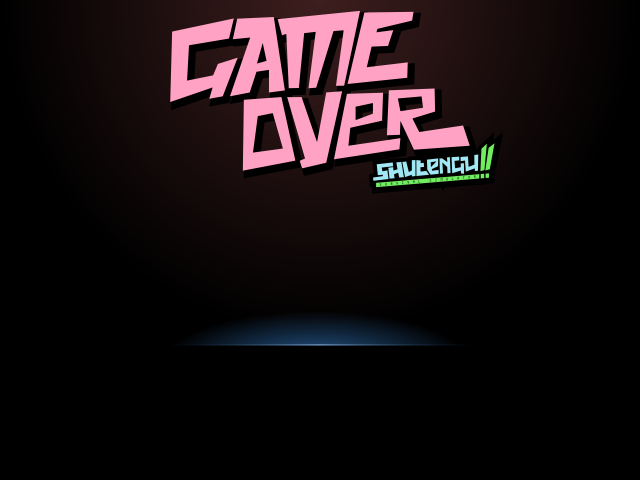
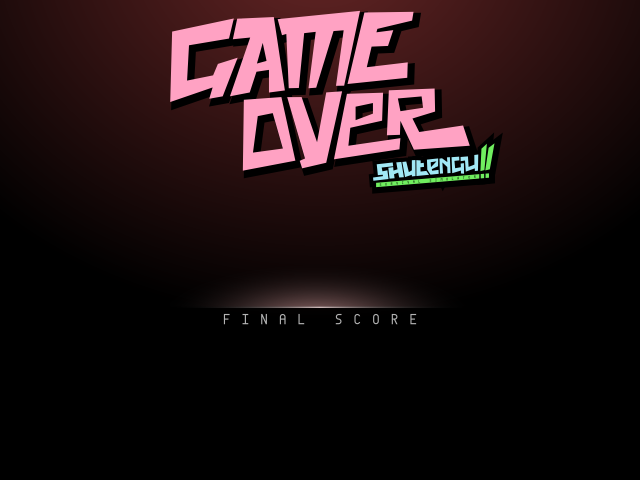
.WhyCantIHoldAllTheseFileExtensions

Changed region(s): [[0.0, 0.0, 1.0, 0.1875], [0.3125, 0.5938, 0.6875, 0.7188]]

diff --git a/SHUTENGU(fix the bullets).cpp b/SHUTENGU(fix the bullets).cpp
@@ -56,6 +56,7 @@ Mix_Chunk *chBomb=NULL;
 TTF_Font *fnMenu=NULL;
 TTF_Font *fnHUD=NULL;
 TTF_Font *fnHighScore=NULL;
+TTF_Font *fnFinalScore=NULL;
 SDL_Color clDefault= {0,0,0};
 SDL_Color clMenu= {0xff,0xff,0xff};
 SDL_Color clScore= {0xff,0xff,0xff};
@@ -71,24 +72,31 @@ SDL_Event event;
 //lists ship properties
 class ship {;
     public:
-    	int xVel, yVel;     //velocity
+    	int xVel, yVel;                         //velocity
         SDL_Rect hitbox;
-        ship();             //initializes
-        void handleInput();//handles keyboard controls for the ship
-        void move(Uint32 deltaTicks);        //handles motion
-        void show();        //renders ship
+        ship();                                 //initializes
+        void handleInput();                     //handles keyboard controls for the ship
+        void move(Uint32 deltaTicks);           //handles motion
+        void show();                            //renders ship
 };
 
 struct bulletData {         //bullet structure
     SDL_Rect hitbox;		//SDL_Rect is a structure; this is a nested structure
     int xVel;
     int yVel;
+    void move(Uint32 deltaTicks);
 };
-
 //A STRUCTURE ARRAY!
 //it must be declared here in order for the bulletData data type to be valid
 bulletData b[200];
 
+void bulletData::move(Uint32 DeltaTicks){
+    int i;
+    for(i=0;i<iMaxBul;i++){
+        b[i].hitbox.x=((b[i].xVel)*100)*(DeltaTicks/1000.f);
+        b[i].hitbox.y=((b[i].yVel)*100)*(DeltaTicks/1000.f);
+    }
+}
 //lists timer properties
 class Timer {
     private:
@@ -143,6 +151,8 @@ bool init() {
 
 //initializes most game assets
 bool prepAssets() {
+    int i;
+
     //load images or return false if error
     sfMenu=IMG_Load("img/menu.png");
     sfShip=IMG_Load("img/gameship.png");
@@ -178,9 +188,11 @@ bool prepAssets() {
     fnMenu=TTF_OpenFont("envy.ttf",24);
     fnHUD=TTF_OpenFont("envy.ttf",46);
     fnHighScore=TTF_OpenFont("envy.ttf",24);
+    fnFinalScore=TTF_OpenFont("envy.ttf",64);
     if(fnMenu==NULL||
 		fnHUD==NULL||
-		fnHighScore==NULL) return false;
+		fnHighScore==NULL||
+		fnFinalScore==NULL) return false;
 
     //all is well
     return true;
@@ -220,6 +232,7 @@ void cleanUp() {
     TTF_CloseFont(fnMenu);
     TTF_CloseFont(fnHUD);
     TTF_CloseFont(fnHighScore);
+    TTF_CloseFont(fnFinalScore);
     TTF_Quit();
 
     //quit SDL
@@ -295,7 +308,7 @@ void nextWave() {
     iMaxBul+=2;                       //after every wave increase, the number of bullets increases
     b[iMaxBul].xVel=rand()%10-5;      //sets the new bullet parameters
     b[iMaxBul].yVel=rand()%5+1;
-    b[iMaxBul-1].xVel=rand()%10-5;        //sets the new bullet parameters
+    b[iMaxBul-1].xVel=rand()%10-5;    //sets the new bullet parameters
     b[iMaxBul-1].yVel=rand()%5+1;
     prepBullets();
 }
@@ -400,7 +413,6 @@ void ship::move(Uint32 DeltaTicks) {
     else if(hitbox.y+SHIP_HEIGHT>480){
         hitbox.y=460;
     }
-    //if((hitbox.y<0)||(hitbox.y+SHIP_HEIGHT>SCREEN_HEIGHT)) hitbox.y-=yVel*(DeltaTicks/1000.f);
 }
 
 //renders the ship
@@ -552,7 +564,7 @@ int main(int argc,char* args[]) {
     //read and store the string of appropriate language
     FILE *pLang;
     char strLang[25];       //language string
-    if((pLang=fopen("text/gr.txt","r"))!=NULL) {
+    if((pLang=fopen("text/gr.WhyCantIHoldAllTheseFileExtensions","r"))!=NULL) {
         if(fgets(strLang,25,pLang)==NULL) return 1;
     }
     fclose(pLang);
@@ -561,7 +573,7 @@ int main(int argc,char* args[]) {
 	//read and store current highscore
 	FILE *pHighScoreR;
 	char strHighScore[10];
-	if((pHighScoreR=fopen("text/highscore.txt","r"))!=NULL){
+	if((pHighScoreR=fopen("text/highscore.WhyCantIHoldAllTheseFileExtensions","r"))!=NULL){
 		if(fgets(strHighScore,10,pHighScoreR)==NULL) return 1;
 	}
 	fclose(pHighScoreR);
@@ -674,7 +686,11 @@ int main(int argc,char* args[]) {
 				}
 			}
 
+
 			//update screen data
+			for(i=0;i<=iMaxBul;i++){
+                b[i].move(tmDelta.getTicks());
+			}
 			myship.move(tmDelta.getTicks());    //update ship's position
 			tmDelta.start();                    //restart change of time timer
 			printb(0,0,sfBG,sfScreen);          //print background
@@ -685,26 +701,27 @@ int main(int argc,char* args[]) {
 			iMaxBul=-1;
 			}
 
-			for(i=0; i<=iMaxBul; i++) {
-				if(isCol(myship.hitbox,b[i].hitbox)) {
-					iLife--;
-					if(Mix_PlayChannel(-1,chDeath,0)==-1) return 1;
-					iBomb=3;
-					if(iLife==0) quitGame=true;
-					b[i].hitbox.x=rand()%420-120;
-					b[i].hitbox.y=0;
-				}
-				if(b[i].hitbox.x>515) b[i].hitbox.x=120;
-				if(b[i].hitbox.x<120) b[i].hitbox.x=515;        //compensate for bullet width
-				if(b[i].hitbox.y>480) {                         //because collision is counted from sScore of the picture
-					b[i].hitbox.y=0;                            //so bulletwidth had to be subtracted
-					b[i].xVel=rand()%10-5;                      //bullet can travel left or right
-					b[i].yVel=rand()%5+1;                       //can only travel down
-				}
-				b[i].hitbox.y+=b[i].yVel;
-				b[i].hitbox.x+=b[i].xVel;
-				printb(b[i].hitbox.x,b[i].hitbox.y,sfBullet,sfScreen,NULL);
-			}
+            for(i=0; i<=iMaxBul; i++) {
+                if(isCol(myship.hitbox,b[i].hitbox)) {
+                    iLife--;
+                    if(Mix_PlayChannel(-1,chDeath,0)==-1) return 1;
+                    iBomb=3;
+                    if(iLife==0) quitGame=true;
+                    b[i].hitbox.x=rand()%420-120;
+                    b[i].hitbox.y=0;
+                }
+                if(b[i].hitbox.x>515) b[i].hitbox.x=120;
+                if(b[i].hitbox.x<120) b[i].hitbox.x=515;        //compensate for bullet width
+                if(b[i].hitbox.y>480) {                         //because collision is counted from sScore of the picture
+                    b[i].hitbox.y=0;                            //so bulletwidth had to be subtracted
+                    b[i].xVel=rand()%10-5;                      //bullet can travel left or right
+                    b[i].yVel=rand()%5+1;                       //can only travel down
+                }
+                b[i].hitbox.y+=b[i].yVel;
+                b[i].hitbox.x+=b[i].xVel;
+                printb(b[i].hitbox.x,b[i].hitbox.y,sfBullet,sfScreen,NULL);
+            }
+
 
 			//display all stats
 			renderHUD();
@@ -734,7 +751,7 @@ int main(int argc,char* args[]) {
 		//store new high score, if there is one
 		if(iScore>iHighScore){
 			FILE *pHighScoreW;
-			if((pHighScoreW=fopen("text/highscore.txt","w"))!=NULL){
+			if((pHighScoreW=fopen("text/highscore.WhyCantIHoldAllTheseFileExtensions","w"))!=NULL){
 				if(fprintf(pHighScoreW,"%d",iScore)==0) return 1;
 			}
 			fclose(pHighScoreW);
@@ -768,20 +785,20 @@ int main(int argc,char* args[]) {
 			//ACTUALLY CLEAN THIS UP AND MAKE SEPARATE SURFACES AND FONTS
 			std::stringstream finalScore;
 			finalScore<<iScore;
-			sfScore=TTF_RenderText_Blended(fnHUD,finalScore.str().c_str(),clWaves);
+			sfScore=TTF_RenderText_Blended(fnFinalScore,finalScore.str().c_str(),clMenu);
 
 			FILE *pRestart;
 			char strRestart[30];
-			if((pRestart=fopen("text/grr.txt","r"))!=NULL){
+			if((pRestart=fopen("text/grr.WhyCantIHoldAllTheseFileExtensions","r"))!=NULL){
 				if(fgets(strRestart,30,pRestart)==NULL) return 1;
 			}
 			fclose(pRestart);
 			sfRestart=TTF_RenderText_Blended(fnMenu,strRestart,clScore);
 
 			printb(0,0,sfOverBG,sfScreen,NULL);
-			printb((SCREEN_WIDTH-sfRestart->w)/2,315,sfRestart,sfScreen,NULL);
-			printb((SCREEN_WIDTH-sfScore->w)/2,200,sfScore,sfScreen,NULL);
-			if(newHighScore==true) printb(340,234,sfNewHigh,sfScreen,NULL);
+			printb((SCREEN_WIDTH-sfRestart->w)/2,385,sfRestart,sfScreen,NULL);
+			printb((SCREEN_WIDTH-sfScore->w)/2,240,sfScore,sfScreen,NULL);
+			if(newHighScore==true)	printb(430,280,sfNewHigh,sfScreen,NULL);
 
 			//refresh the screen
 			if(SDL_Flip(sfScreen)==-1) return 1;

diff --git a/changelog.md b/changelog.md
@@ -1,6 +1,11 @@
 Changes to Shutengu!!
 =====================
 
+0.16.5 Jan 18 2012
+------------------
+* Adjusted game over screen
+* `.txt` files replaced with `.WhyCantIHoldAllTheseFileExtensions`
+
 0.16.4 Jan 17 2012
 ------------------
 + Added window icon
